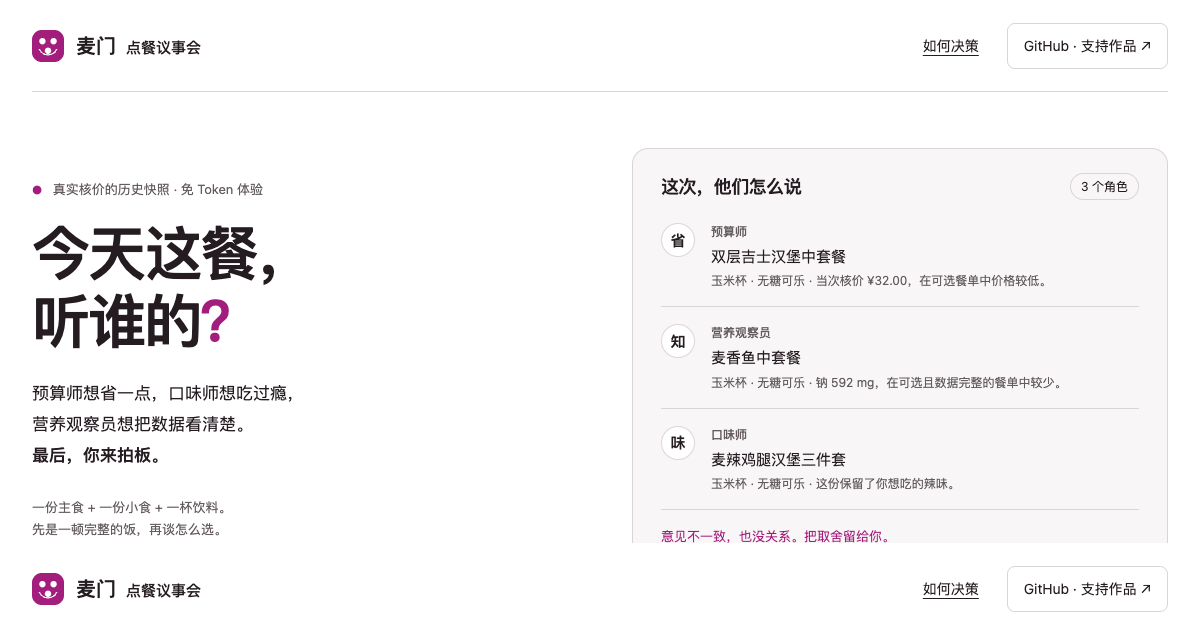
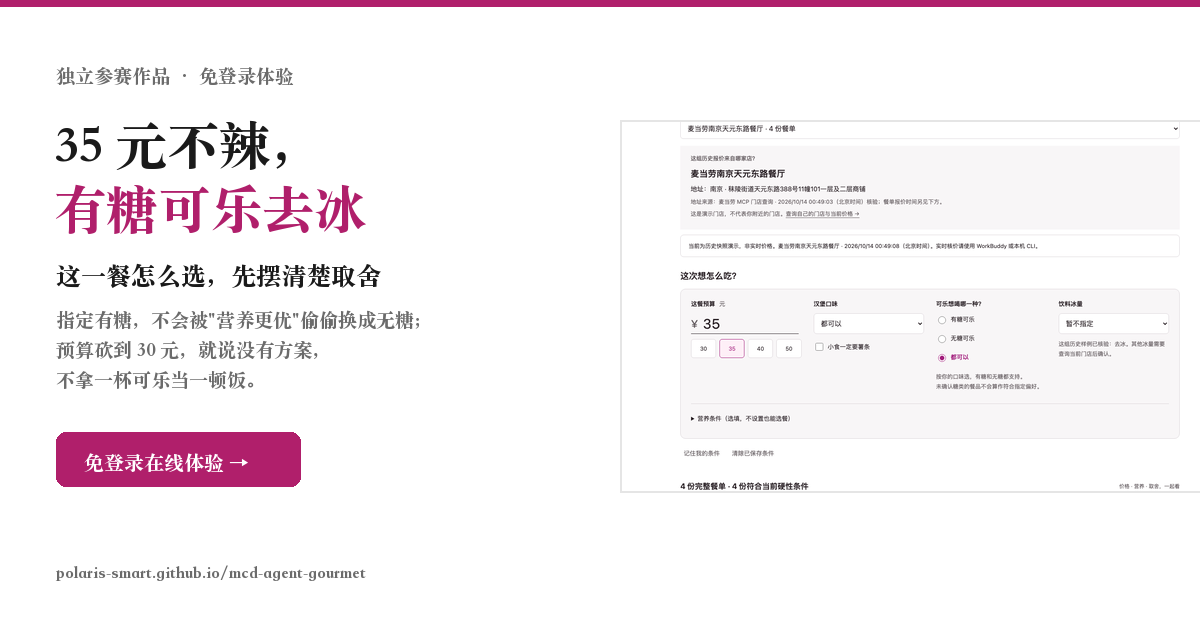
README 首屏改用当前界面，钩子前置；LICENSE 回归标准 MIT (#1)
* README 首屏换用当前界面截图，钩子前置；LICENSE 回归标准 MIT

- 删除'上图为早期界面留档'的自我否定说明
- 首屏改为当前界面截图（hero.png）+ 四份餐单核价表（results.png）
- 把'先试 30 秒'交互清单提到首屏，勾子落在用户可感知的结果
- 自定义许可说明移出 LICENSE 至 NOTICE，使 GitHub 识别为标准 MIT

* 分享封面改用当前界面，替换旧版三角色界面

原 social.png 是 v0.2 的三角色界面，与 README 新定位不一致。
新封面用当前界面截图 + '有糖不换无糖 / 没方案就说没有' 的钩子。

diff --git a/README.md b/README.md
@@ -2,11 +2,26 @@
 
 **按你的口味，算清这一餐。预算、门店、有糖或无糖、冰量，都由你决定。**
 
-[打开在线体验](https://polaris-smart.github.io/mcd-agent-gourmet/) · [旧版 35 秒操作演示](https://polaris-smart.github.io/mcd-agent-gourmet/assets/demo.mp4) · [真实联调记录](docs/validation.md) · [安装 Skill](#在-workbuddy-里使用) · [English](README_EN.md)
+**「35 元，不辣，有糖可乐去冰，带走。」** 一句话说清需求，比较完整的一餐；没有满足条件的餐单，就直说没有，不拿一杯可乐糊弄你。
 
-![点餐议事会界面：预算、口味与营养数据的透明比较](docs/assets/preview.png)
+[打开在线体验（免登录）](https://polaris-smart.github.io/mcd-agent-gourmet/) · [安装 Skill](#在-workbuddy-里使用) · [真实联调记录](docs/validation.md) · [English](README_EN.md)
 
-上图及视频为早期界面留档；当前界面请打开在线体验。
+![麦门点餐议事会：预算、门店、糖与冰量都由你决定](docs/assets/hero.png)
+
+## 先试 30 秒
+
+不用账号、Token 或安装：
+
+- 预算改 **30 元**：没有符合条件的候选，系统如实说明，不把一杯可乐当一餐。
+- 改回 **35 元**，选 **有糖可乐、去冰**：只保留对应饮料和冰量的餐单，**不因营养比较而换成无糖**。
+- 选 **不吃辣**：只保留满足条件的餐单。钠上限由你填写，是个人筛选条件，不是健康标准。
+- 选定一份餐单后再改条件：原选择自动撤销，需要重新确认。
+
+![核价与取舍并排展示：四份完整餐单，价格、钠含量与取舍一览](docs/assets/results.png)
+
+网页使用历史快照，所有比较在你的浏览器内完成，不收集凭证、不调用下单、不加入追踪器；本项目为独立参赛作品，非麦当劳官方产品。也可看 [35 秒录屏演示](https://polaris-smart.github.io/mcd-agent-gourmet/assets/demo.mp4)（v0.2 界面录制）。
+
+## 它做什么
 
 “35 元，不辣，有糖可乐去冰，带走。帮我看看天元东路附近哪家店合适。”这是我们希望用户直接表达的需求。Skill 会先补齐地点、让你确认门店，再比较完整餐单，不要求普通用户复制门店、商品或券的编码。**这条路径由安装了 Skill 的 AI 客户端执行；网页是免登录的历史数据体验，CLI 是开发者入口。**
 
@@ -24,17 +39,6 @@
 上表是 **2026-10-13 麦当劳南京东城汇餐厅的真实核价快照**，不是当前报价，也不是营养搭配建议。实际购买须重新核价。我们比较六份候选，不保证全菜单最低价。
 
 </details>
-
-## 先试 30 秒
-
-直接 [打开网页](https://polaris-smart.github.io/mcd-agent-gourmet/)，不用账号、Token 或安装。
-
-- 把预算改成 **30 元**：没有符合条件的候选，系统如实说明，不把一杯可乐当一餐。
-- 改回 **35 元**，在天元东路样例选择 **有糖可乐、去冰**：只保留对应饮料和冰量的餐单，不因营养比较而换成无糖。
-- 选择 **不吃辣**：只保留满足条件的餐单。需要比较营养数据时再展开，钠上限由你填写，是个人筛选条件，不是健康标准。
-- 选一份餐单，再改变条件：原选择自动撤销，需要重新确认。
-
-网页使用历史快照，所有比较在你的浏览器内完成，不收集凭证、不调用下单、不加入追踪器。
 
 ## 在 WorkBuddy 里使用
 

diff --git a/README_EN.md b/README_EN.md
@@ -1,8 +1,21 @@
 # Meal Council · McDonald's China MCP
 
-**When budget, taste and nutrition data disagree, see the trade-offs and make the final choice.**
+**"35 yuan, not spicy, regular cola with no ice, takeaway."** Say it once and compare a complete meal — an explicit regular-cola choice is never silently swapped for zero sugar, and when nothing fits it says so instead of selling you a lone soda.
 
-[Try the demo](https://polaris-smart.github.io/mcd-agent-gourmet/) · [中文](README.md)
+[Try the demo in 30 seconds](https://polaris-smart.github.io/mcd-agent-gourmet/) · [中文](README.md)
+
+![Meal Council: you decide budget, store, sugar and ice](docs/assets/hero.png)
+
+**Try it in 30 seconds** — no account, token or install:
+
+- Set the budget to **30 yuan**: nothing qualifies, and the page says so rather than counting a cola as a meal.
+- Back to **35 yuan** and pick **regular cola, no ice**: only matching drinks and ice levels remain; the nutrition comparison never quietly switches you to zero sugar.
+- Choose **not spicy**: only qualifying meals remain. The sodium cap is yours to set — a personal filter, not a health standard.
+- Change a condition after picking a meal: the previous pick is cleared and must be re-confirmed.
+
+![Priced meals with trade-offs side by side](docs/assets/results.png)
+
+The browser compares historical snapshots entirely on your device: no credentials, no ordering, no trackers. Independent contest entry, not an official McDonald's product.
 
 A complete meal comes first: a main, a side and a drink. Deterministic comparisons show lower cost, lower known sodium and closer taste matches among eligible candidates. Several criteria may select the same meal. Regular and zero-sugar cola are equal preference choices; an explicit preference is never silently replaced.
 
